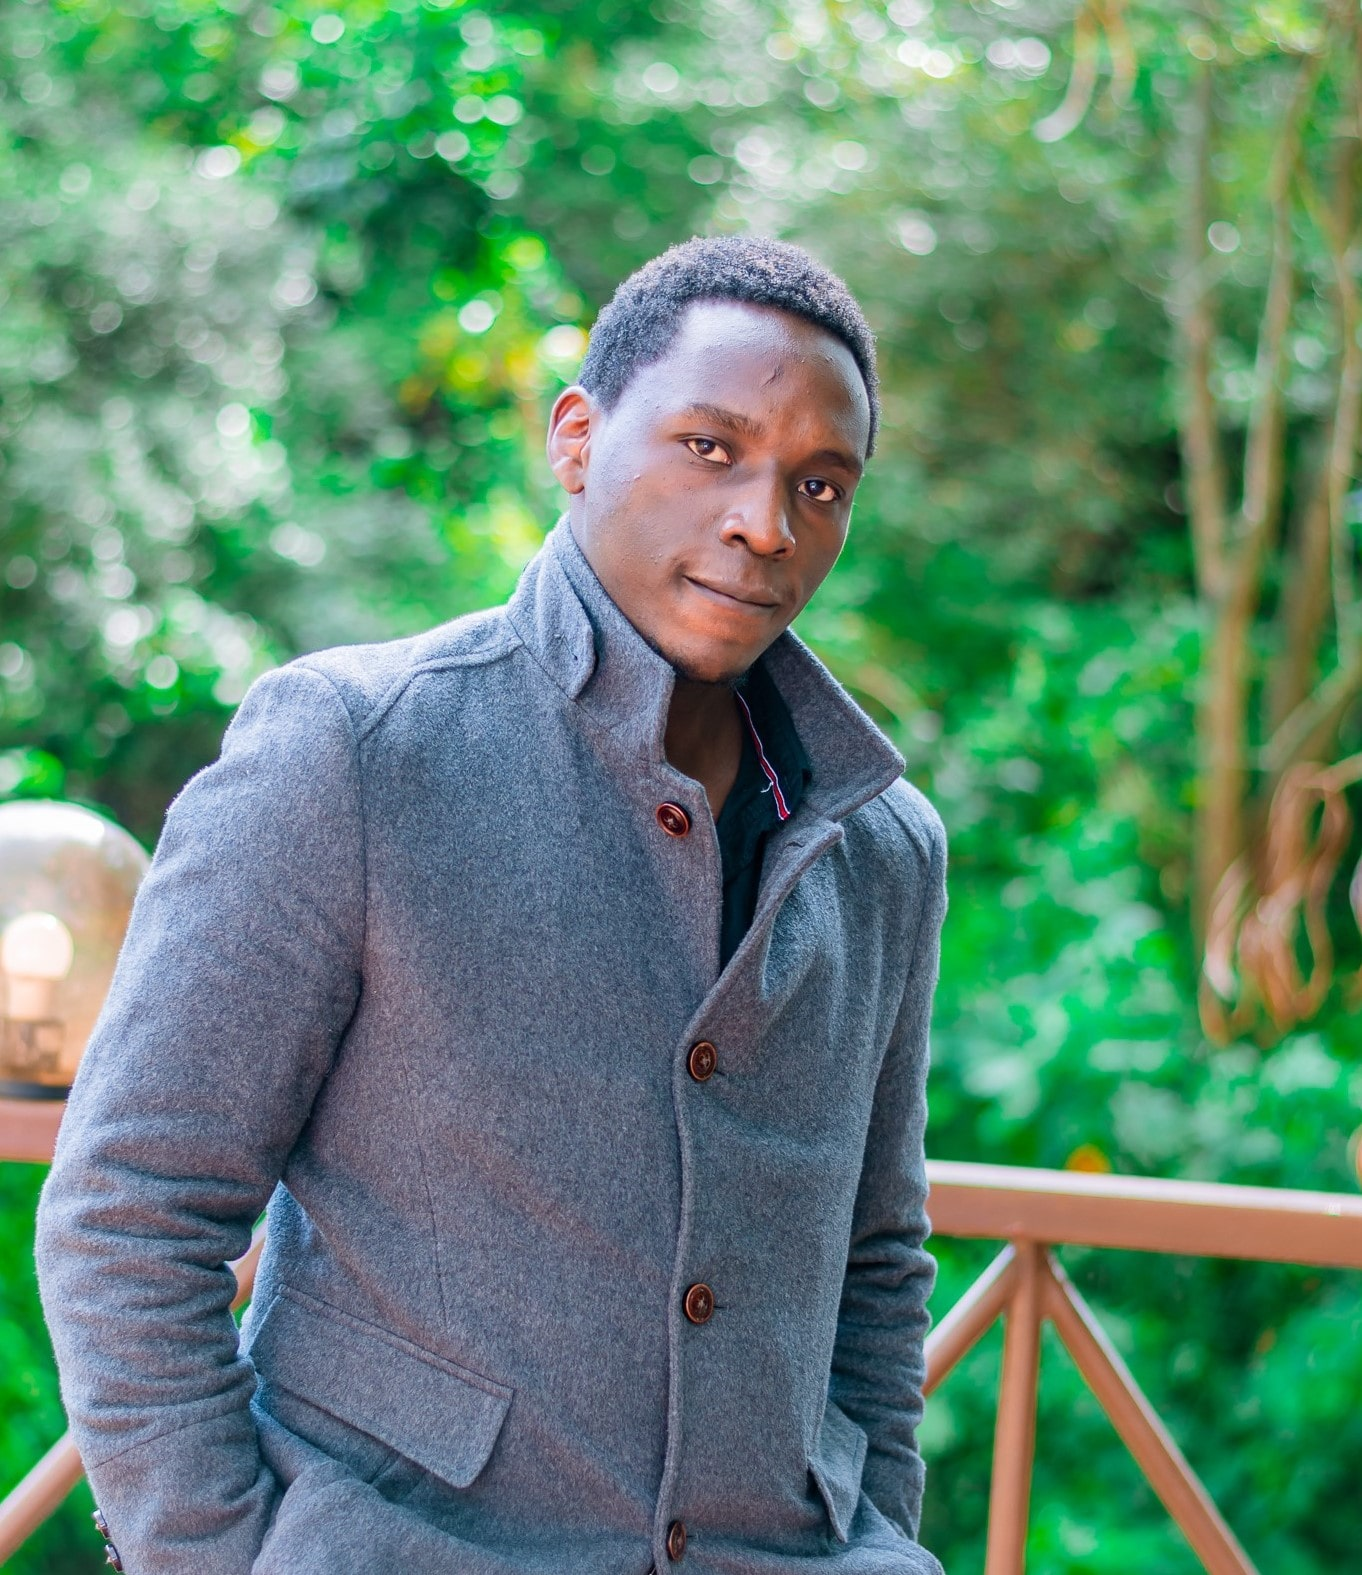
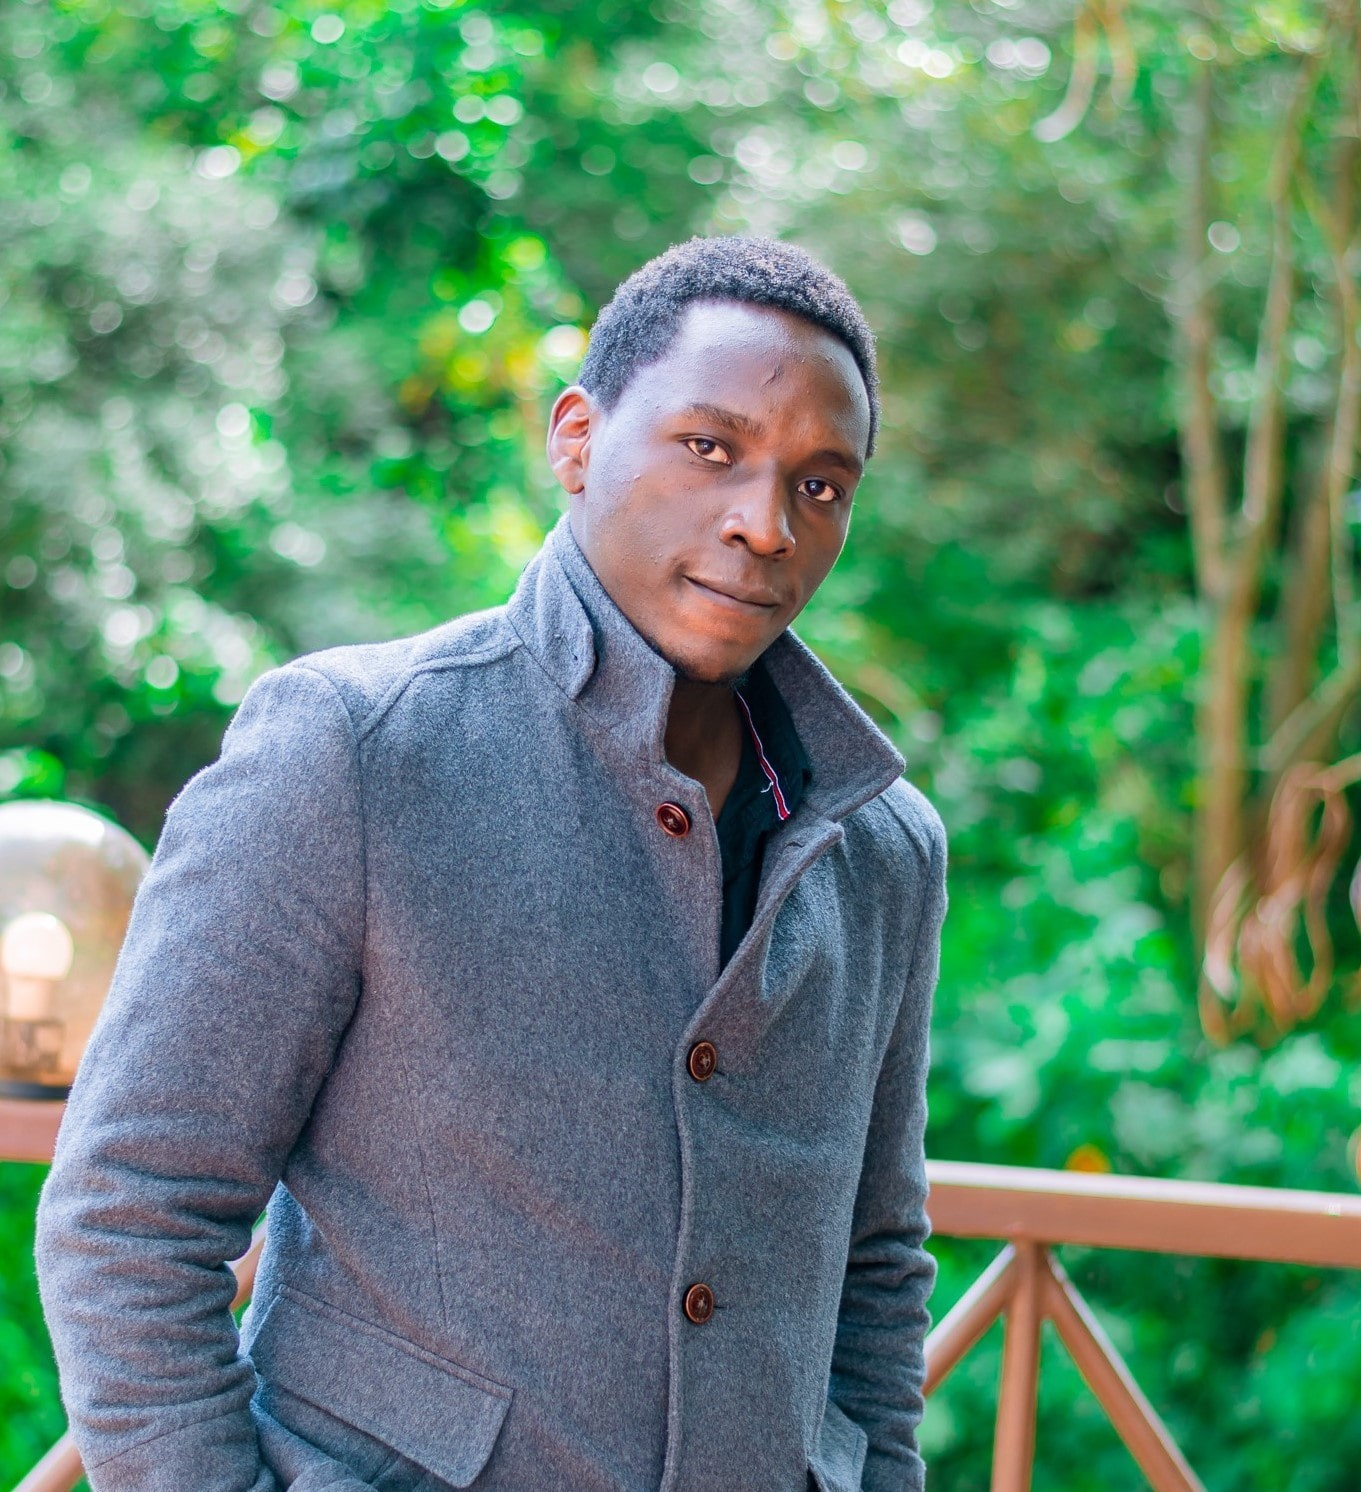
update

diff --git a/application/views/home.php b/application/views/home.php
@@ -38,15 +38,16 @@
                       <div class="art-banner-back"></div>
                       <!-- banner dec -->
                       <div class="art-banner-dec"></div>
+                      
                       <!-- banner overlay -->
                       <div class="art-banner-overlay">
                         <!-- main title -->
                         <div class="art-banner-title">
                           <!-- title -->
-                          <h1 class="mb-15">Changing the World  <br>With Each Line of Code.</h1>
+                          <h1 class="mb-15">Changing <br> the World  <br>With Each Line <br> of Code.</h1>
                           <!-- suptitle -->
                           <div class="art-lg-text art-code mb-25">&lt;<i>code</i>&gt; I build <span class="txt-rotate" data-period="2000"
-                              data-rotate='[ "web interfaces.", "great software.", "android applications.", "design mocups.", "automation tools." ]'></span>&lt;/<i>code</i>&gt;</div>
+                              data-rotate='[ "web interfaces.", "great software.", "android applications."]'></span>&lt;/<i>code</i>&gt;</div>
                           <div class="art-buttons-frame">
                             <!-- button -->
                             <a href="<?php echo base_url(); ?>portfolio" class="art-btn art-btn-md"><span>Explore now</span></a>
@@ -54,7 +55,7 @@
                         </div>
                         <!-- main title end -->
                         <!-- photo -->
-                        <img src="<?php echo base_url();?>/resources/img/face-3.jpg" class="art-banner-photo" alt="Your Name">
+                        <img style="" src="<?php echo base_url();?>/resources/img/face-2.jpg" class="art-banner-photo" alt="Your Name">
 
                       </div>
                       <!-- banner overlay end -->
